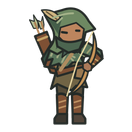
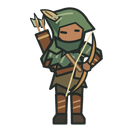
Preserve equipment handedness and aim while backpedalling

Changed region(s): [[0.2121, 0.0606, 0.7879, 0.9394]]

diff --git a/src/martialRig.ts b/src/martialRig.ts
@@ -3,7 +3,8 @@ import bladeSockets from './blade-sockets.json';
 import bowSockets from './bow-sockets.json';
 import {facingFromVector,type Facing} from './pose';
 
-const bankRow=(v:Facing)=>v==='back'?2:v==='front'?0:1;
+const bankRow=(v:Facing)=>v==='left'?3:v==='back'?2:v==='front'?0:1;
+const LEG_FRAMES=3*24,UPPER_FRAMES=4*6,JOB_FRAMES=LEG_FRAMES+UPPER_FRAMES;
 
 export class MartialRig {
   readonly root:Phaser.GameObjects.Container;
@@ -14,16 +15,18 @@ export class MartialRig {
   private attack=1; private wound=0; private stride=0;
   private heavySwing=false;
   private windup=0;
+  private targetFacing?:Facing;
   private recoilX=0; private recoilY=0;
   private tip=new Phaser.Math.Vector2();
   private bank:number;
 
   constructor(scene:Phaser.Scene,job:'warden'|'hunter'){
-    this.bank=job==='warden'?90:0;
+    this.bank=job==='warden'?JOB_FRAMES:0;
     this.feet=scene.add.image(0,0,'hunter-motion',this.bank).setOrigin(.5,.61).setScale(.83);
-    this.figure=scene.add.image(0,0,'hunter-motion',this.bank+24).setOrigin(.5,.61).setScale(.83);
+    this.figure=scene.add.image(0,0,'hunter-motion',this.bank+LEG_FRAMES).setOrigin(.5,.61).setScale(.83);
     this.root=scene.add.container(0,0,[this.feet,this.figure]);
   }
+  track(dx:number,dy:number){this.targetFacing=facingFromVector(dx,dy,this.facing);}
   prepare(dx:number,dy:number,left:number){
     if(this.wound>.09)return;
     this.windup=1-left/.16;
@@ -42,17 +45,15 @@ export class MartialRig {
   }
   update(dt:number,moving:boolean,angle:number,invincible:boolean,seconds:number,dash=0,heavyReady=false){
     this.attack+=dt;this.wound=Math.max(0,this.wound-dt);
-    if(moving){
-      this.stride+=dt*44;
-      this.walkFacing=facingFromVector(Math.cos(angle),Math.sin(angle),this.walkFacing);
-      if(!this.windup && this.attack>=.27)this.facing=this.walkFacing;
-    }
-    // The pelvis follows the aiming torso. Opposite travel plays the stride backwards.
-    const braced=this.windup>0 || this.attack<.24;
+    if(moving)this.walkFacing=facingFromVector(Math.cos(angle),Math.sin(angle),this.walkFacing);
+    if(!this.windup && this.attack>=.24)this.facing=this.targetFacing??(moving?this.walkFacing:this.facing);
+    const braced=!!this.targetFacing || this.windup>0 || this.attack<.24;
+    this.targetFacing=undefined;
     const travel=moving && !braced?this.walkFacing:this.facing;
     const axis=travel==='left'?Math.PI:travel==='right'?0:travel==='back'?-Math.PI/2:Math.PI/2;
-    const gait=moving?(Math.cos(angle-axis)<0?23-Math.floor(this.stride)%24:Math.floor(this.stride)%24):0;
-    const legs=this.bank+bankRow(travel)*30+gait;
+    if(moving)this.stride=(this.stride+(Math.cos(angle-axis)<0?-1:1)*dt*44+24)%24;
+    const gait=moving?Math.floor(this.stride):0;
+    const legs=this.bank+bankRow(travel==='left'?'right':travel)*24+gait;
     // Cast is delivered on the simulation's contact/release tick. Show contact
     // first, follow through, settle the hands, then return to the ready pose.
     let upperPose=0;
@@ -62,9 +63,9 @@ export class MartialRig {
     else if(this.attack<.15)upperPose=4;
 
     const view=bankRow(this.facing);
-    let top=this.bank+view*30+24+upperPose;
-    if(this.wound<=.09 && this.bank===90){
-      const heavyBank=180+view*3;
+    let top=this.bank+LEG_FRAMES+view*6+upperPose;
+    if(this.wound<=.09 && this.bank===JOB_FRAMES){
+      const heavyBank=2*JOB_FRAMES+view*3;
       if(this.heavySwing && this.attack<.24)top=heavyBank+(this.attack<.09?1:2);
       else if(heavyReady && this.attack>=.15)top=heavyBank;
     }
@@ -74,9 +75,9 @@ export class MartialRig {
     const x=this.recoilX*4*recoil, y=this.recoilY*3*recoil;
     const bob=moving?-Math.abs(Math.sin(this.stride*Math.PI/12))*1.15:0;
     this.feet.setFlipX(travel==='left').setPosition(x,y);
-    this.figure.setFlipX(this.facing==='left').setPosition(x,y+bob+Math.sin(Math.PI*dash/.2));
+    this.figure.setPosition(x,y+bob+Math.sin(Math.PI*dash/.2));
     const brace=this.windup*.055,release=this.attack<.16?Math.sin(Math.PI*this.attack/.16)*.045:0;
-    const lean=(this.bank===90?1:-1)*(release-brace);
+    const lean=(this.bank===JOB_FRAMES?1:-1)*(release-brace);
     this.figure.setRotation(travel==='left'?-lean:travel==='right'?lean:0);
     this.windup=0;
     this.root.alpha=invincible?.86+.14*Math.abs(Math.sin(seconds*7)):1;
@@ -85,21 +86,20 @@ export class MartialRig {
   bowSocket(dx:number,dy:number,live:boolean){
     const frame=Number(this.figure.frame.name),view=facingFromVector(dx,dy,this.facing);
     // A restored, already flying arrow predating sockets uses its own release view.
-    const row=live?Math.floor(frame/30):bankRow(view);
-    const [x,y]=bowSockets[row*6+(live?frame%30-24:3)];
-    const flip=live?this.figure.flipX:view==='left';
-    return this.socketOffset(x,y,flip,live);
+    const index=live?frame-LEG_FRAMES:bankRow(view)*6+3;
+    const [x,y]=bowSockets[index];
+    return this.socketOffset(x,y,live);
   }
-  private socketOffset(x:number,y:number,flip:boolean,live=true){
-    const localX=(flip?128-x:x)-this.figure.displayOriginX,localY=y-this.figure.displayOriginY;
+  private socketOffset(x:number,y:number,live=true){
+    const localX=x-this.figure.displayOriginX,localY=y-this.figure.displayOriginY;
     const a=live?this.figure.rotation:0,c=Math.cos(a),s=Math.sin(a);
     return {x:(live?this.figure.x:0)+this.figure.scaleX*(localX*c-localY*s),
       y:(live?this.figure.y:0)+this.figure.scaleY*(localX*s+localY*c)};
   }
   bladeLine(){
-    const frame=Number(this.figure.frame.name),i=frame>=180?18+frame-180:Math.floor((frame-90)/30)*6+frame%30-24;
+    const frame=Number(this.figure.frame.name),i=frame-JOB_FRAMES-LEG_FRAMES;
     const [gx,gy,tx,ty]=bladeSockets[i];
-    const grip=this.socketOffset(gx,gy,this.figure.flipX),tip=this.socketOffset(tx,ty,this.figure.flipX);
+    const grip=this.socketOffset(gx,gy),tip=this.socketOffset(tx,ty);
     return {x:this.root.x+grip.x,y:this.root.y+grip.y,length:Math.hypot(tip.x-grip.x,tip.y-grip.y),angle:Math.atan2(tip.y-grip.y,tip.x-grip.x)};
   }
   wandTip(){this.tip.set(this.root.x,this.root.y-12);return this.tip;}

diff --git a/src/combat.ts b/src/combat.ts
@@ -209,8 +209,17 @@ export class Combat {
     if(left<=0 || left>.16 || !this.build[weapon])return;
     return this.aimTarget(weapon,this.build[weapon]!,weapon==='spark' && this.masteryActive && this.stormCharge>=1,this.relic==='stillglass' && this.focus>=1);
   }
+  private lastMartialTarget?:Enemy;
+  private weaponRange(weapon:WeaponId,level:number,charged:boolean){
+    return weapon==='blade'?(110+level*7)*this.reach*(this.heavyReady?1.3:1):weapon==='bow'?510:weapon==='comet'?480:weapon==='ember'?350:weapon==='frost'?(140+level*12)*this.reach:charged?320:240;
+  }
+  get combatFacingTarget(){
+    const target=this.lastMartialTarget,weapon=this.path.weapon;
+    if(target && target.hp>0 && distance2(target,this.player)<this.weaponRange(weapon,this.build[weapon]??1,false)**2)return target;
+    this.lastMartialTarget=undefined;
+  }
   private aimTarget(weapon:WeaponId,level:number,charged:boolean,focused:boolean){
-    const range=weapon==='blade'?(110+level*7)*this.reach*(this.heavyReady?1.3:1):weapon==='bow'?510:weapon==='comet'?480:weapon==='ember'?350:weapon==='frost'?(140+level*12)*this.reach:charged?320:240;
+    const range=this.weaponRange(weapon,level,charged);
     let target=this.nearest(this.player.x,this.player.y,range);
     if(focused || (charged && this.classTalent) || (weapon==='spore' && this.pathId==='fern' && this.masteryActive)){
       let best=range*range;
@@ -235,6 +244,7 @@ export class Combat {
     this.effect({kind:'cast',weapon,x:this.player.x,y:this.player.y,tx:target.x,ty:target.y});
     const scale=SPELL_DAMAGE[level]*this.power*(focused?1.25:1);
     if(weapon==='blade'||weapon==='bow'){
+      this.lastMartialTarget=target;
       const p=this.player,angle=Math.atan2(target.y-p.y,target.x-p.x);
       this.weaponAngle=angle;this.weaponMotion=1;
       if(weapon==='blade'){

diff --git a/src/main.ts b/src/main.ts
@@ -40,7 +40,7 @@ function home() {
   page='home'; run=undefined; scene.setPaused(true); scene.sim=undefined;
   audio.combat=false; audio.paused=false;
   hud.hidden=true; panel.hidden=false; app.className='cover';
-  panel.innerHTML=`<div class="title"><h1>森光守夜</h1><p lang="en">Forest Nightwatch</p><nav>${ready?(store.data.checkpoint?action('restore','继续',true):action('select','开始游戏',true)):'<button disabled>游戏加载中…</button>'}${action('camp','营地训练')}${action('journal','守夜手记')}${action('settings','设置')}</nav><small>v1.17.1</small>${store.warning?`<small>${store.warning}</small>`:''}</div>`;
+  panel.innerHTML=`<div class="title"><h1>森光守夜</h1><p lang="en">Forest Nightwatch</p><nav>${ready?(store.data.checkpoint?action('restore','继续',true):action('select','开始游戏',true)):'<button disabled>游戏加载中…</button>'}${action('camp','营地训练')}${action('journal','守夜手记')}${action('settings','设置')}</nav><small>v1.17.2</small>${store.warning?`<small>${store.warning}</small>`:''}</div>`;
 }
 let chosenJob:Job='mage';
 let banked=0,lastCheckpoint=-10;

diff --git a/tests/forestInteractions.test.ts b/tests/forestInteractions.test.ts
@@ -14,6 +14,21 @@ describe('forest combat interactions',()=>{
     s.step(1/60,idle);expect(s.effects.some(e=>e.kind==='cast')).toBe(true);
     s.step(1/60,idle);expect(s.effects.some(e=>e.kind==='cast')).toBe(false);
   });
+  it.each(['guard','sniper'] as const)('%s tracks an engaged target while retreating and releases it outside weapon range',path=>{
+    const game=arena(path),p=game.player;
+    const enemy=game.spawn('slime',p.x+54,p.y)!;
+    enemy.speed=0;enemy.hp=enemy.maxHp=1000;
+    for(let tick=0;tick<18;tick++)game.step(1/60,{x:-.3,y:0});
+    expect(game.combatFacingTarget).toBe(enemy);
+    enemy.x=p.x+600;
+    expect(game.combatFacingTarget).toBeUndefined();
+    const next=game.spawn('slime',p.x-55,p.y)!;
+    next.speed=0;next.hp=next.maxHp=1000;
+    for(let tick=0;tick<60;tick++)game.step(1/60,idle);
+    expect(game.combatFacingTarget).toBe(next);
+    next.hp=0;
+    expect(game.combatFacingTarget).toBeUndefined();
+  });
   it('only the ancient tree stomp cracks living beetles inside the impact',()=>{
     const s=arena('hazel');s.build={};const p=s.player;
     const owner=s.spawn('boss',p.x+240,p.y)!;

diff --git a/src/scene.ts b/src/scene.ts
@@ -166,6 +166,10 @@ export class ForestScene extends Phaser.Scene {
     }
     const readyPose=this.sim.path.job==='mage'?this.sim.focus>=1:this.sim.heavyReady;
     const target=this.sim.windupTarget;
+    if(this.rig instanceof MartialRig){
+      const facing=this.sim.combatFacingTarget;
+      if(facing)this.rig.track(facing.x-this.sim.player.x,facing.y-this.sim.player.y);
+    }
     if(target)this.rig.prepare(target.x-this.sim.player.x,target.y-this.sim.player.y,this.sim.windupTime);
     this.rig.update(dt,this.sim.player.moving,this.sim.player.angle,this.sim.player.invincible>0,this.sim.seconds,this.sim.dashTime,readyPose);
     // Render between the two fixed simulation samples on high-refresh displays.

diff --git a/docs/reviews.md b/docs/reviews.md
@@ -220,3 +220,10 @@ https://en.esotericsoftware.com/spine-slots/
 - 同一桌面 Edge 横屏回放中，v1.17.0 的水平箭从首个可见帧起下沉了 16.30 个游戏像素，v1.17.1 实测为 0。新版实测左右、前后与斜向后撤射击，逐帧跟踪四种攻击的 30 支箭，垂直于出射方向的偏移均小于 0.01 个游戏像素。
 - 法师火种与流星从杖尖发射，命中特效沿弹道定位。首段闪电和出手闪光锁定施法瞬间的位置。剑卫普通与重斩的近身刀迹均读取当帧剑柄和剑尖。树脂弹、晶片、蛾粉与古树种弹从模型中心高度发射，晶片的三条预警和实弹共用散射角。已核对地面圆形、环带、扇形和冲撞走廊的预警与判定尺寸。
 - Edge 横屏复测覆盖四向移动中的火种、流星、闪电（共 12 组）、普通斩和重斩（共 8 组），以及四类敌人的 17 枚弹体。升级、续玩、重开、96 项自动测试、类型检查和生产构建通过。桌面密集战斗平均 60.0 FPS，P95 帧耗时 19.2 毫秒。iPhone 17 Pro 真机表现仍待验证。
+
+## v1.17.2 · 侧身与后撤
+
+- 剑卫右手握剑、左手持盾。面朝左时看见近侧的盾面，面朝右时能看到远侧的盾缘和内侧绑带。猎手左手持弓，箭袋口固定在右肩。两侧分别烘焙肩带、箭羽、手臂与披风的遮挡，并调整背面的左右肩。
+- 上半身按正面、背面和独立的左右侧身取帧。搭箭点、剑柄与剑尖跟随各自姿势烘焙。两职业共用一张 2048×1664 的动作图集。
+- 连续对同一目标后撤时保持战斗朝向，步态随移动方向连续反向播放。目标死亡或离开攻击距离后解除跟踪。
+- 98 项自动测试、类型检查和构建通过。桌面 Edge 横屏回放核对了两个职业分别向两侧后撤时的朝向与实际命中，并检查 30 支箭、8 组普通斩和重斩，及离线续玩。附带 GIF 使用同一游戏包；左右来敌的遭遇经过安排，角色动作、伤害与特效由正常战斗循环产生。

diff --git a/README.md b/README.md
@@ -1,8 +1,10 @@
 # 森光守夜 · Forest Nightwatch
 
-**当前版本：v1.17.1 · 战斗出手校准**　｜　[版本说明](https://github.com/DraymondZhou/forest-nightwatch/releases/tag/v1.17.1) · [下载离线游戏（HTML）](https://github.com/DraymondZhou/forest-nightwatch/releases/download/v1.17.1/Forest-Nightwatch-v1.17.1.html)
+**当前版本：v1.17.2 · 侧身与后撤**　｜　[版本说明](https://github.com/DraymondZhou/forest-nightwatch/releases/tag/v1.17.2) · [下载离线游戏（HTML）](https://github.com/DraymondZhou/forest-nightwatch/releases/download/v1.17.2/Forest-Nightwatch-v1.17.2.html)
 
 《森光守夜》是一款支持手机横屏和电脑浏览器的森林生存肉鸽。先选职业，再选流派：法师靠雷电、孢子或余火控制战场；剑卫用盾反或重斩近身作战；猎手用穿杨或散射调整交战距离。
+
+剑卫左手持盾、右手持剑，猎手的箭袋挂在右肩。向反方向后撤时仍朝向射程内的交战目标。
 
 猎手的箭从当前动作的弓弦飞出，侧射保持在松弦高度。法师的弹体从杖尖发出，晶片怪发射前能看到三条弹路。
 
